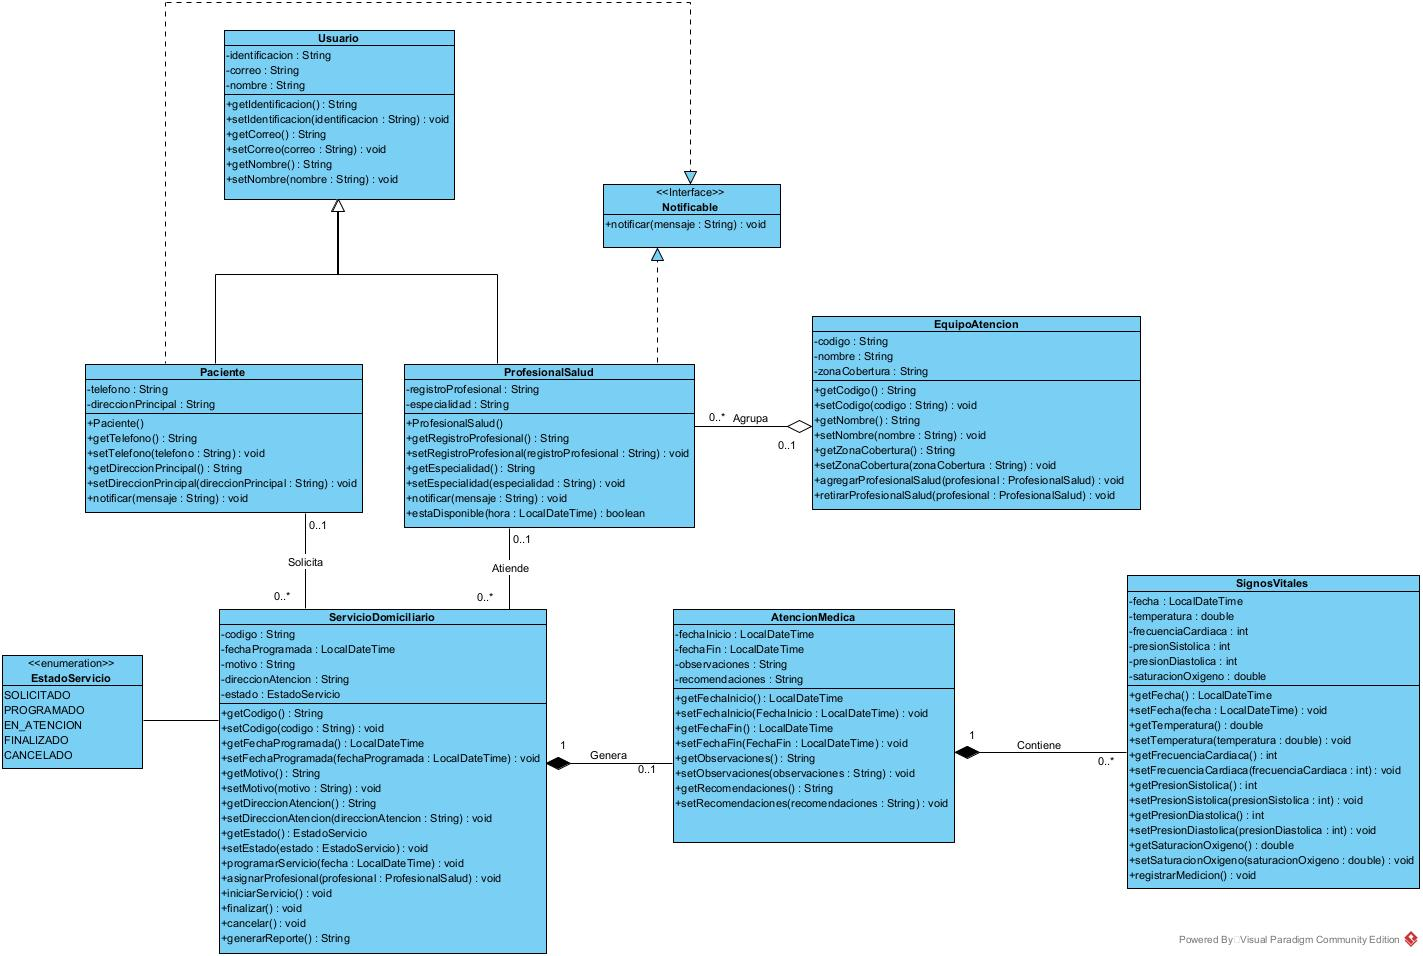
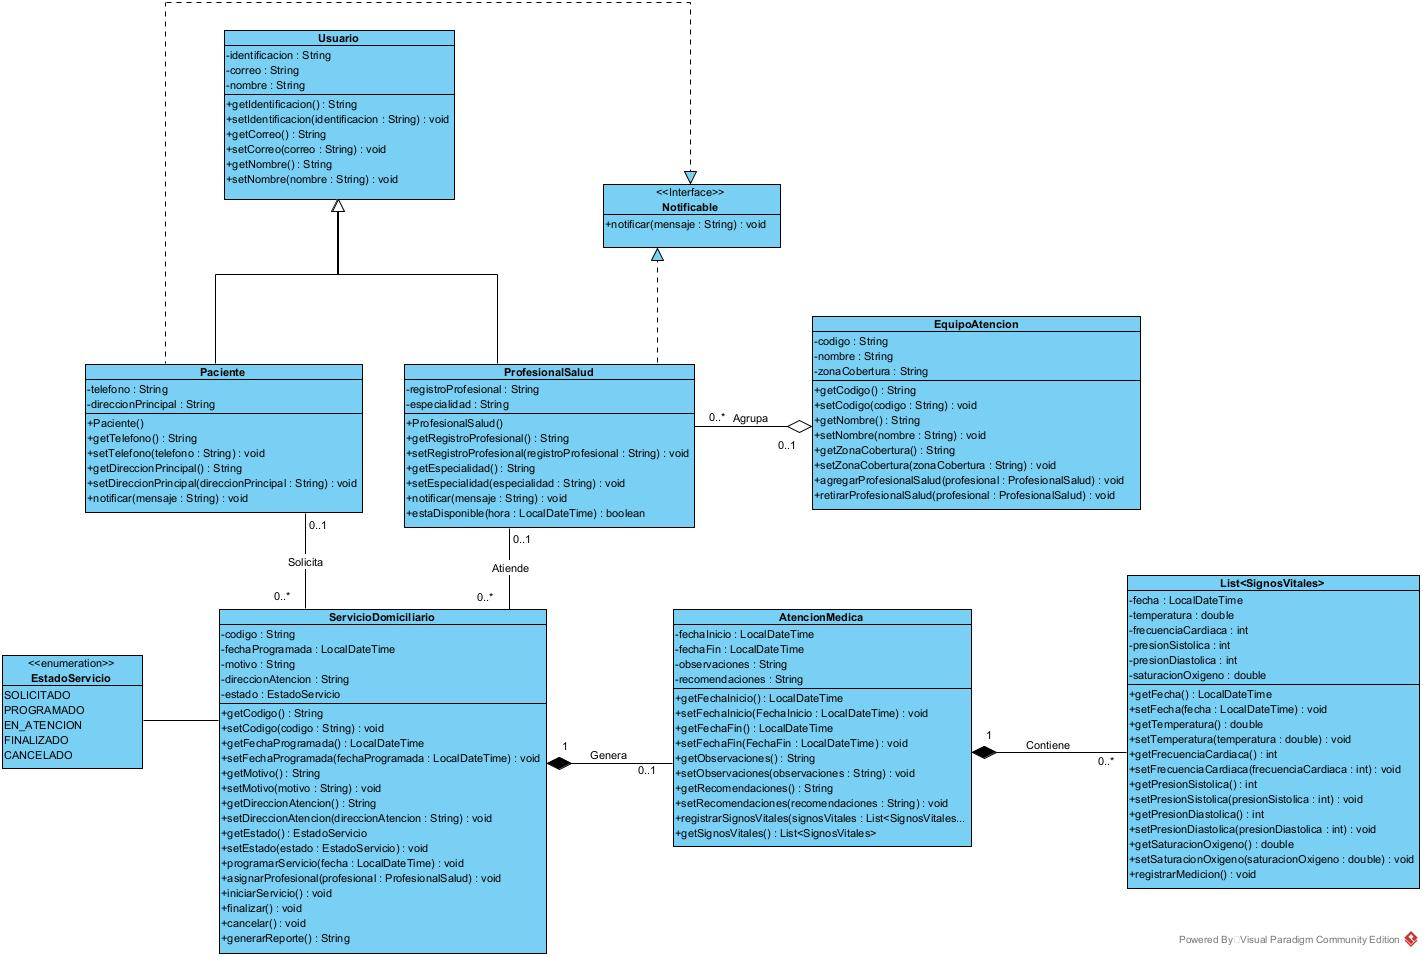
first commit

Changed region(s): [[0.773, 0.6067, 0.9895, 0.9404], [0.4638, 0.637, 0.7421, 0.91], [0.5257, 0.637, 0.6184, 0.6674]]

diff --git a/src/ServicioDomiciliario.java b/src/ServicioDomiciliario.java
@@ -107,7 +107,7 @@ public class ServicioDomiciliario {
             throw new IllegalArgumentException("El profesional asignado no es correcto");
         }
         if (!profesionalSalud.estaDisponible(fechaProgramada)) {
-            throw new IllegalStateException("El profesional " + profesionalSalud.getNombre() + " no está disponible para " + fechaProgramada);
+            throw new IllegalStateException("El profesional no está disponible para " + fechaProgramada);
         }
 
         this.profesionalSalud = profesionalSalud;
@@ -131,7 +131,6 @@ public class ServicioDomiciliario {
         }
 
         this.estado = EstadoServicio.CANCELADO;
-        System.out.println("Servicio domiciliario cancelado.");
 
         String mensaje = "El servicio " + codigo + " ha sido cancelado.";
         if (paciente != null && profesionalSalud != null) {
@@ -141,14 +140,14 @@ public class ServicioDomiciliario {
     }
 
     public String generarReporte() {
-        String reporte = "========== REPORTE DE ATENCIÓN ==========\n";
+        String reporte = "------REPORTE DE ATENCIÓN-------\n";
         reporte += "Servicio: " + codigo + "\n";
         reporte += "Fecha programada: " + fechaProgramada + "\n";
         reporte += "Dirección: " + direccionAtencion + "\n";
         reporte += "Motivo: " + motivo + "\n";
         reporte += "Estado: " + estado + "\n";
 
-        reporte += "\n--- Paciente ---\n";
+        reporte += "\n---Paciente---\n";
         if (paciente != null) {
             reporte += "ID: " + paciente.getIdentificacion() + "\n";
             reporte += "Nombre: " + paciente.getNombre() + "\n";
@@ -156,42 +155,35 @@ public class ServicioDomiciliario {
             reporte += "Teléfono: " + paciente.getTelefono() + "\n";
             reporte += "Dirección principal: " + paciente.getDireccionPrincipal() + "\n";
         } else {
-            reporte += "Sin paciente registrado\n";
+            reporte += "Sin paciente \n";
         }
 
-        reporte += "\n--- Profesional de salud ---\n";
+        reporte += "\n---Profesional salud---\n";
         if (profesionalSalud != null) {
             reporte += "ID: " + profesionalSalud.getIdentificacion() + "\n";
             reporte += "Nombre: " + profesionalSalud.getNombre() + "\n";
             reporte += "Registro profesional: " + profesionalSalud.getRegistroProfesional() + "\n";
             reporte += "Especialidad: " + profesionalSalud.getEspecialidad() + "\n";
         } else {
-            reporte += "Sin profesional asignado\n";
+            reporte += "Sin profesional \n";
         }
 
-        reporte += "\n--- Atención médica ---\n";
+        reporte += "\n---Atención médica---\n";
         if (atencionMedica != null) {
             reporte += "Inicio: " + atencionMedica.getFechaInicio() + "\n";
             reporte += "Fin: " + atencionMedica.getFechaFin() + "\n";
             reporte += "Observaciones: " + atencionMedica.getObservaciones() + "\n";
             reporte += "Recomendaciones: " + atencionMedica.getRecomendaciones() + "\n";
 
-            reporte += "\n--- Signos vitales ---\n";
-            if (atencionMedica.getSignosVitales().isEmpty()) {
-                reporte += "Sin mediciones registradas\n";
-            }
+            reporte += "\n---Signos vitales---\n";
             for (SignosVitales signos : atencionMedica.getSignosVitales()) {
                 reporte += "Medición: " + signos.getFecha() + "\n";
-                reporte += "  Temperatura: " + signos.getTemperatura() + " °C\n";
-                reporte += "  Frecuencia cardiaca: " + signos.getFrecuenciaCardiaca() + " lpm\n";
-                reporte += "  Presión arterial: " + signos.getPresionSistolica() + "/" + signos.getPresionDiastolica() + " mmHg\n";
-                reporte += "  Saturación de oxígeno: " + signos.getSaturacionOxigeno() + " %\n";
+                reporte += "  Temperatura: " + signos.getTemperatura() + "\n";
+                reporte += "  Frecuencia cardiaca: " + signos.getFrecuenciaCardiaca() + "\n";
+                reporte += "  Presión arterial: " + signos.getPresionSistolica() + "/" + signos.getPresionDiastolica() + "\n";
+                reporte += "  Saturación de oxígeno: " + signos.getSaturacionOxigeno() + "\n";
             }
-        } else {
-            reporte += "Sin atención registrada\n";
         }
-
-        reporte += "=========================================";
         return reporte;
     }
 }
